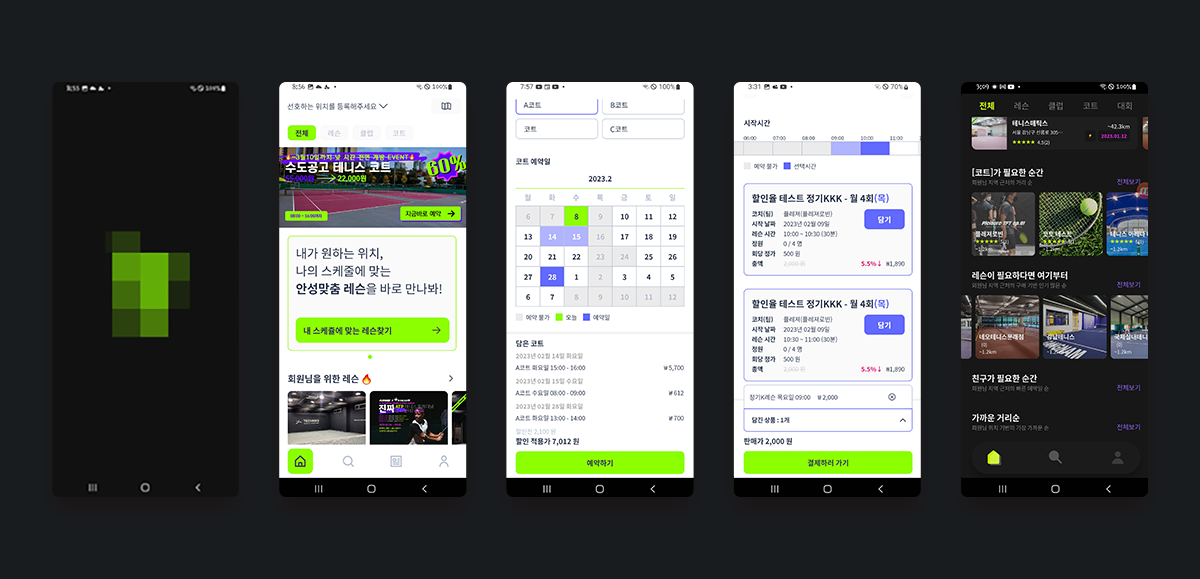
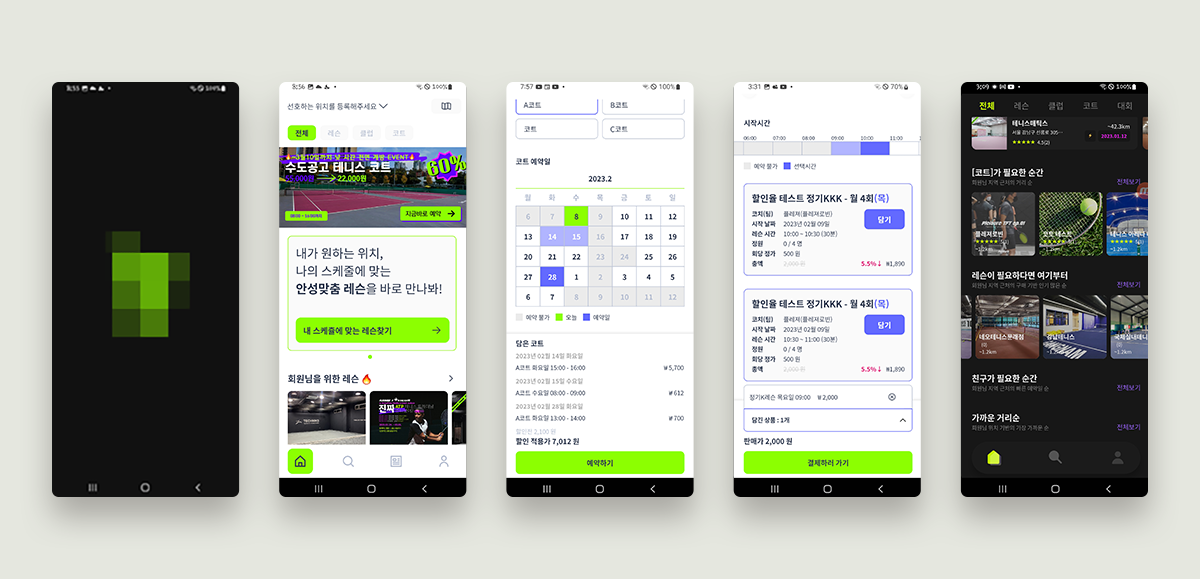
mystery ticket 이미지 수정

diff --git a/src/components/timeline/Timeline.tsx b/src/components/timeline/Timeline.tsx
@@ -1,12 +1,13 @@
 'use client';
 
 import { motion, useMotionValue, useSpring } from 'framer-motion';
-import { useEffect, useState } from 'react';
+import { useEffect, useRef, useState } from 'react';
 import { createPortal } from 'react-dom';
 import { TimelineItem } from '@/types/timeline.type';
 import LiquidButton from '../button/LiquidButton';
 import { Check } from 'lucide-react';
 import { useTranslations } from 'next-intl';
+import Lenis from 'lenis'; // Lenis 패키지 import 경로 맞게 조정하세요
 
 interface TimelineProps {
   items: TimelineItem[];
@@ -20,6 +21,9 @@ export default function Timeline({
   onItemClick,
 }: TimelineProps) {
   const t = useTranslations('timeline');
+  const scrollRef = useRef<HTMLDivElement | null>(null);
+  const itemRefs = useRef<Map<string, HTMLDivElement | null>>(new Map());
+  const lenisRef = useRef<Lenis | null>(null);
 
   const [hoveredItem, setHoveredItem] = useState<TimelineItem | null>(null);
   const [showThumbnail, setShowThumbnail] = useState(false);
@@ -31,6 +35,59 @@ export default function Timeline({
   const mouseY = useMotionValue(0);
   const springX = useSpring(mouseX, { stiffness: 200, damping: 25 });
   const springY = useSpring(mouseY, { stiffness: 200, damping: 25 });
+
+  const selectedIndex = items.findIndex((item) => item.id === selectedItem?.id);
+
+  // Lenis 초기화
+  useEffect(() => {
+    if (!scrollRef.current) return;
+
+    const wrapper = scrollRef.current;
+    const content = wrapper.firstElementChild as HTMLElement;
+    if (!content) return;
+
+    lenisRef.current = new Lenis({
+      wrapper,
+      content,
+      duration: 1.2,
+      easing: (t) => Math.min(1, 1.001 - Math.pow(2, -10 * t)),
+      smoothWheel: true,
+    });
+
+    function raf(time: number) {
+      lenisRef.current?.raf(time);
+      requestAnimationFrame(raf);
+    }
+
+    requestAnimationFrame(raf);
+
+    return () => {
+      lenisRef.current?.destroy();
+      lenisRef.current = null;
+    };
+  }, []);
+
+  // 키보드 방향키 처리
+  useEffect(() => {
+    const handleKeyDown = (e: KeyboardEvent) => {
+      if (!items.length || selectedIndex === -1) return;
+
+      if (e.key === 'ArrowUp') {
+        e.preventDefault();
+        const prevIndex = Math.max(selectedIndex - 1, 0);
+        onItemClick(items[prevIndex]);
+      }
+
+      if (e.key === 'ArrowDown') {
+        e.preventDefault();
+        const nextIndex = Math.min(selectedIndex + 1, items.length - 1);
+        onItemClick(items[nextIndex]);
+      }
+    };
+
+    window.addEventListener('keydown', handleKeyDown);
+    return () => window.removeEventListener('keydown', handleKeyDown);
+  }, [items, selectedIndex, onItemClick]);
 
   useEffect(() => {
     if (!showThumbnail) return;
@@ -45,7 +102,6 @@ export default function Timeline({
       mouseX.set(target.x, false);
       mouseY.set(target.y, false);
 
-      // 최초에만 토글
       if (!showThumbnail) {
         const timer = setTimeout(() => {
           setShowThumbnail(true);
@@ -57,8 +113,40 @@ export default function Timeline({
     }
   }, [target.x, target.y, hoveredItem, showThumbnail, mouseX, mouseY]);
 
+  // 선택된 아이템 위치로 Lenis 스크롤 이동
+  useEffect(() => {
+    if (!selectedItem) return;
+
+    const scrollContainer = scrollRef.current;
+    const itemEl = itemRefs.current.get(selectedItem.id);
+    const lenis = lenisRef.current;
+
+    if (!scrollContainer || !itemEl || !lenis) return;
+
+    const headerOffset = 80;
+    const containerRect = scrollContainer.getBoundingClientRect();
+    const itemRect = itemEl.getBoundingClientRect();
+
+    if (itemRect.top < containerRect.top + headerOffset) {
+      // 🔼 위쪽에 가려진 경우 → scrollTo로 부드럽게 이동
+      const offset = itemEl.offsetTop - headerOffset - 100;
+      setTimeout(() => {
+        lenis.scrollTo(offset);
+      }, 20);
+    } else if (itemRect.bottom > containerRect.bottom) {
+      // 🔽 아래쪽에 가려진 경우 → scrollTo로 부드럽게 이동
+      const offset =
+        itemEl.offsetTop -
+        scrollContainer.clientHeight +
+        itemEl.offsetHeight +
+        10;
+      setTimeout(() => {
+        lenis.scrollTo(offset);
+      }, 20);
+    }
+  }, [selectedItem]);
+
   const handleMouseEnter = (e: React.MouseEvent, item: TimelineItem) => {
-    // 이미 선택된 아이템이면 Click 버튼을 표시하지 않음
     if (selectedItem?.id === item.id) {
       return;
     }
@@ -86,10 +174,16 @@ export default function Timeline({
       <h2 className='text-2xl font-bold text-center mb-6 text-gray-900 dark:text-gray-100 mt-6'>
         Works & Experiences
       </h2>
-      <div className='flex-1 overflow-y-auto pr-2 scrollbar-thin scrollbar-thumb-gray-300 dark:scrollbar-thumb-gray-600 scrollbar-track-transparent'>
+      <div
+        ref={scrollRef}
+        className='flex-1 overflow-y-auto pr-2 scrollbar-thin scrollbar-thumb-gray-300 dark:scrollbar-thumb-gray-600 scrollbar-track-transparent'
+      >
         {items.map((item, index) => (
           <div key={item.id}>
             <motion.div
+              ref={(el) => {
+                itemRefs.current.set(item.id, el);
+              }}
               initial={{ opacity: 0, y: 20 }}
               animate={{ opacity: 1, y: 0 }}
               transition={{ duration: 0.5, delay: index * 0.1 }}

diff --git a/src/components/main/Main.tsx b/src/components/main/Main.tsx
@@ -4,15 +4,17 @@ import Intro from '@/components/intro/Intro';
 import Timeline from '@/components/timeline/Timeline';
 import TimelineDetail from '@/components/timeline/TimelineDetail';
 import { motion } from 'framer-motion';
-import { useState, useEffect, Suspense } from 'react';
+import { useState, useEffect, Suspense, useRef } from 'react';
 import { useSearchParams, usePathname } from 'next/navigation';
 import { type TimelineItem } from '@/types/timeline.type';
 import { timelineData } from '@/data/timeline.data';
+import Lenis from 'lenis';
 
 function MainContent() {
   const [selectedItem, setSelectedItem] = useState<TimelineItem | null>(null);
   const searchParams = useSearchParams();
   const pathname = usePathname();
+  const timelineDetailScrollRef = useRef<HTMLDivElement | null>(null);
 
   useEffect(() => {
     const itemId = searchParams.get('item');
@@ -35,6 +37,25 @@ function MainContent() {
       setSelectedItem(null);
     }
   }, [pathname, searchParams]);
+
+  useEffect(() => {
+    if (!timelineDetailScrollRef.current) return;
+
+    const lenis = new Lenis({
+      wrapper: timelineDetailScrollRef.current,
+      duration: 1.2,
+      easing: (t) => Math.min(1, 1.001 - Math.pow(2, -10 * t)),
+      smoothWheel: true,
+    });
+
+    function raf(time: number) {
+      lenis.raf(time);
+      requestAnimationFrame(raf);
+    }
+    requestAnimationFrame(raf);
+
+    return () => lenis.destroy();
+  }, []);
 
   const handleItemClick = (item: TimelineItem) => {
     setSelectedItem(item);
@@ -79,6 +100,7 @@ function MainContent() {
 
             {/* Timeline Detail with scroll */}
             <motion.div
+              ref={timelineDetailScrollRef}
               initial={{ opacity: 0, y: 30 }}
               animate={{ opacity: 1, y: 0 }}
               transition={{ duration: 0.8, delay: 0.7, ease: 'easeOut' }}

diff --git a/src/components/timeline/TimelineDetail.tsx b/src/components/timeline/TimelineDetail.tsx
@@ -7,7 +7,7 @@ import { cn } from '@/lib/utils';
 import Image from 'next/image';
 import { useTranslations } from 'next-intl';
 import { FaBuilding } from 'react-icons/fa6';
-import { FaExternalLinkAlt, FaGooglePlay, FaDesktop } from 'react-icons/fa';
+import { FaGooglePlay, FaDesktop } from 'react-icons/fa';
 import { IoLogoAppleAppstore } from 'react-icons/io5';
 import { TbBrowserShare } from 'react-icons/tb';
 
@@ -83,7 +83,7 @@ export default function TimelineDetail({
       initial={{ opacity: 0, x: 20 }}
       animate={isVisible ? { opacity: 1, x: 0 } : { opacity: 0, x: 20 }}
       transition={{ duration: 0.5 }}
-      className='h-full overflow-y-auto flex flex-col gap-7'
+      className='flex flex-col gap-7'
     >
       <div>
         {/* Header */}